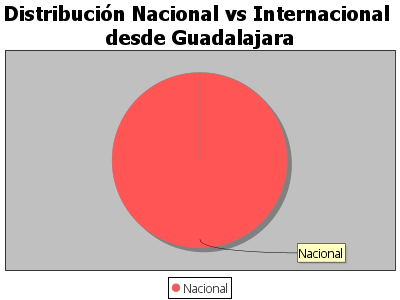
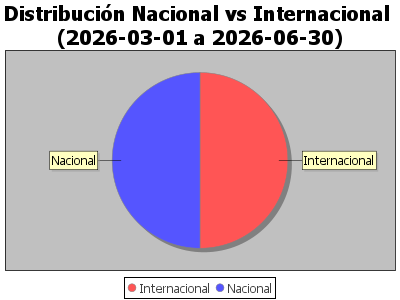
cambia unas cosas del diseño y del diseño de reportes

diff --git a/src/View/Buscar_vuelos_view.java b/src/View/Buscar_vuelos_view.java
@@ -20,6 +20,7 @@ import java.awt.Color;
 import java.awt.Component;
 import java.awt.Dimension;
 import java.awt.FlowLayout;
+import java.awt.Font;
 import java.util.ArrayList;
 import javax.swing.BorderFactory;
 import javax.swing.Box;
@@ -207,6 +208,11 @@ public class Buscar_vuelos_view extends Interfaz_vista_abtractas{
         };
         tabla = new JTable(modelo);
         scroll = new JScrollPane(tabla);
+
+        tabla.setFont(new Font("Arial", Font.PLAIN, 16));
+        tabla.getTableHeader().setFont(new Font("Arial", Font.BOLD, 18));
+        tabla.setRowHeight(30);
+        tabla.setAutoResizeMode(JTable.AUTO_RESIZE_ALL_COLUMNS);
         
         tablero_datos.add(scroll, BorderLayout.CENTER);
         

diff --git a/src/Controller/Reportes_creadorPdf.java b/src/Controller/Reportes_creadorPdf.java
@@ -33,7 +33,7 @@ public class Reportes_creadorPdf {
         
     }
     
-    public void setCrearPdf(JTable tabla,JFreeChart chartTiempo,JFreeChart chartDestino, JFreeChart chartTipo){
+    public void setCrearPdf(JTable tabla,JFreeChart chartTiempo,JFreeChart chartDestino, JFreeChart chartTipo, String tituloA){
         
         try{
             // Cuadro de diálogo para elegir dónde guardar
@@ -54,7 +54,7 @@ public class Reportes_creadorPdf {
                 documento.open();
 
                 // Título
-                Paragraph titulo = new Paragraph("Reportes Financieros\n\n");
+                Paragraph titulo = new Paragraph("REPORTES "+tituloA+"\n\n");
                 titulo.setAlignment(Paragraph.ALIGN_CENTER);
                 documento.add(titulo);
                 

diff --git a/src/View/Apartado_reportes_financieros_view.java b/src/View/Apartado_reportes_financieros_view.java
@@ -124,6 +124,10 @@ public class Apartado_reportes_financieros_view extends Interfaz_vista_abtractas
         
         
         tabla = new JTable(modelo);
+        tabla.setFont(new Font("Arial", Font.PLAIN, 13));
+        tabla.getTableHeader().setFont(new Font("Arial", Font.BOLD, 15));
+        tabla.setRowHeight(30);
+        tabla.setAutoResizeMode(JTable.AUTO_RESIZE_ALL_COLUMNS);
         tabla.setBackground(Color.decode("#D9D9D9"));
         tabla.setEnabled(false);
         tabla.getTableHeader().setReorderingAllowed(false);

diff --git a/src/View/Apartado_reportes_operacionales_view.java b/src/View/Apartado_reportes_operacionales_view.java
@@ -132,6 +132,10 @@ public class Apartado_reportes_operacionales_view extends Interfaz_vista_abtract
         
         
         tabla = new JTable(modelo);
+        tabla.setFont(new Font("Arial", Font.PLAIN, 13));
+        tabla.getTableHeader().setFont(new Font("Arial", Font.BOLD, 15));
+        tabla.setRowHeight(30);
+        tabla.setAutoResizeMode(JTable.AUTO_RESIZE_ALL_COLUMNS);
         tabla.setBackground(Color.decode("#D9D9D9"));
         tabla.setEnabled(false);
         tabla.getTableHeader().setReorderingAllowed(false);

diff --git a/src/View/Login_view.java b/src/View/Login_view.java
@@ -36,7 +36,7 @@ public class Login_view extends JFrame {
 
     public Login_view() {
 
-        super("Menu");
+        super("LOGIN");
 
         contenedor = getContentPane();
 
@@ -64,7 +64,7 @@ public class Login_view extends JFrame {
         txContraseña.setPreferredSize(new Dimension(350, 25));
 
         b1 = new JButton("INICIAR SESION");
-        b2 = new JButton("Recuperar contraseña");
+        b2 = new JButton("RECUPERAR CONTRASEÑA");
         btnVolver = new JButton("VOLVER");
 
         ImageIcon imagen = new ImageIcon(

diff --git a/src/Controller/Reportes_financieros_controller.java b/src/Controller/Reportes_financieros_controller.java
@@ -58,7 +58,7 @@ public class Reportes_financieros_controller implements ActionListener{
     @Override
     public void actionPerformed(ActionEvent e){
         if(e.getSource() == vista.btnExportar){
-            CrearPdf.setCrearPdf(vista.tabla,chartIngresos,chartGastos,chartTipo);
+            CrearPdf.setCrearPdf(vista.tabla,chartIngresos,chartGastos,chartTipo,"FINANCIEROS");
         }else if(e.getSource() == vista.btnFecha){
             vista.mostrarModalFecha();
         }else if(e.getSource() == vista.btnAplicarFecha){

diff --git a/src/Controller/Reportes_operativos_controller.java b/src/Controller/Reportes_operativos_controller.java
@@ -61,7 +61,7 @@ public class Reportes_operativos_controller implements ActionListener{
     @Override
     public void actionPerformed(ActionEvent e){
         if(e.getSource() == vista.btnExportar){
-            CrearPdf.setCrearPdf(vista.tabla,chartTiempo,chartDestino,chartTipo);
+            CrearPdf.setCrearPdf(vista.tabla,chartTiempo,chartDestino,chartTipo,"OPERACIONALES");
         }else if(e.getSource() == vista.btnFecha){
             vista.mostrarModalFecha();
         }else if(e.getSource() == vista.btnAplicarFecha){